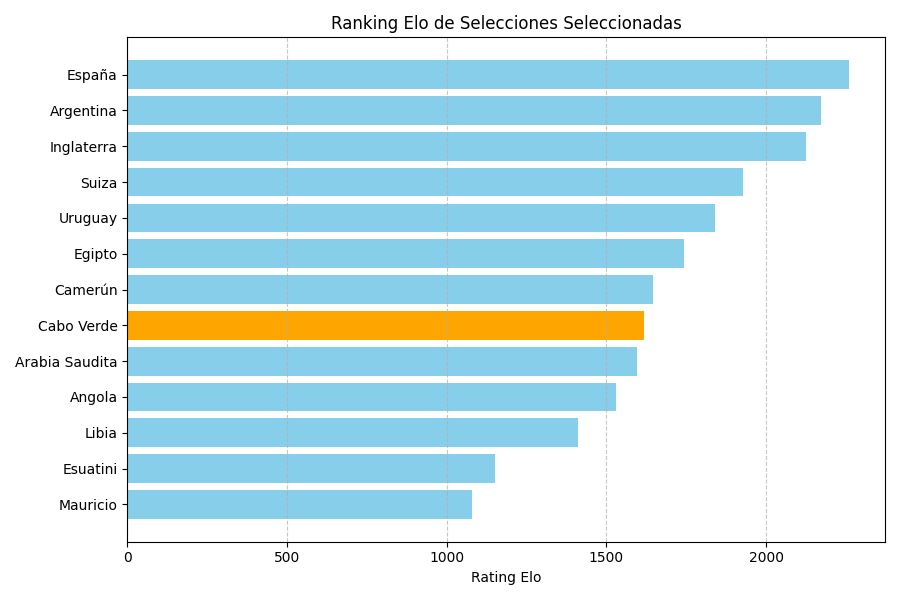
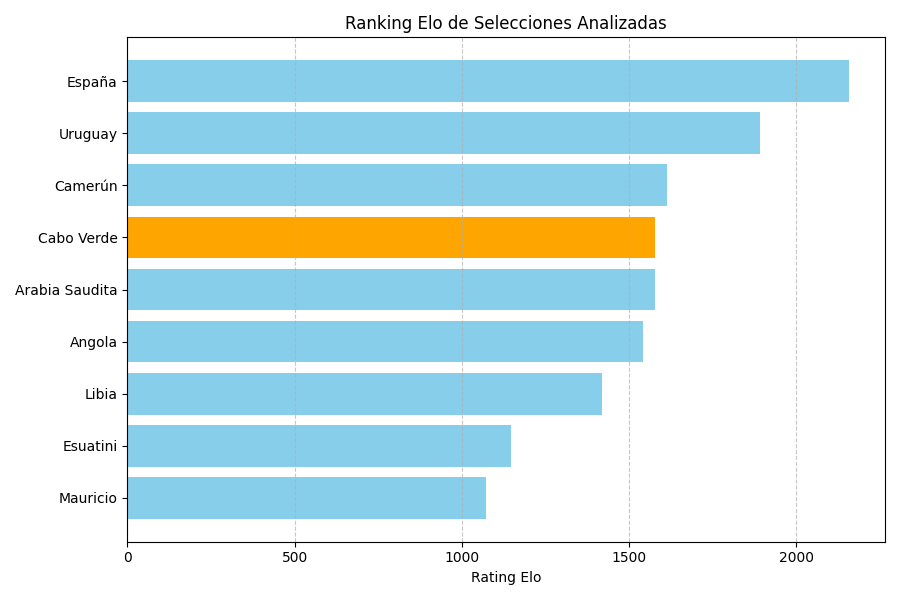
cambio en edo_simulador para generar gráfica de ELO

diff --git a/eda_simulador.py b/eda_simulador.py
@@ -1,9 +1,14 @@
-import math
 import os
+import sys
 import random
 import matplotlib.pyplot as plt
 import numpy as np
 import pandas as pd
+
+# Permite importar las funciones de simulación del proyecto Cabo Verde
+sys.path.append("2.4.Cabo Verde")
+
+from simulacion_base import simular_partido
 
 print("=" * 75)
 print("DÍA 4: EDA COMPLETO Y FUNCIONES BASE DE SIMULACIÓN")
@@ -25,6 +30,7 @@ if os.path.exists(ruta_chelsea_csv):
     stats_campeon = df_chelsea["gc_campeon"].agg(
         ["mean", "median", "var", "std", "min", "max"]
     )
+
     stats_defensa = df_chelsea["gc_mejor_defensa"].agg(
         ["mean", "median", "var", "std", "min", "max"]
     )
@@ -32,10 +38,12 @@ if os.path.exists(ruta_chelsea_csv):
     df_stats = pd.DataFrame(
         {"GC Campeón": stats_campeon, "GC Mejor Defensa": stats_defensa}
     )
+
     print(df_stats.round(2).to_string())
 
     # Chelsea 2004-05 Récord
     chelsea_0405 = df_chelsea[df_chelsea["temporada"] == "2004-2005"].iloc[0]
+
     print(
         f"\n Destacado Chelsea 2004-05: Campeón = {chelsea_0405['campeon']}, "
         f"GC = {chelsea_0405['gc_campeon']} (Récord Histórico de la Premier League)"
@@ -44,6 +52,7 @@ if os.path.exists(ruta_chelsea_csv):
     # GENERACIÓN DE GRÁFICOS CHELSEA
     # Histograma de GC del Campeón
     plt.figure(figsize=(8, 5))
+
     plt.hist(
         df_chelsea["gc_campeon"],
         bins=10,
@@ -51,6 +60,7 @@ if os.path.exists(ruta_chelsea_csv):
         edgecolor="black",
         alpha=0.7,
     )
+
     plt.axvline(
         chelsea_0405["gc_campeon"],
         color="red",
@@ -58,7 +68,9 @@ if os.path.exists(ruta_chelsea_csv):
         linewidth=2,
         label=f"Chelsea 04/05 ({chelsea_0405['gc_campeon']} GC)",
     )
+
     plt.title("Histograma de Goles en Contra del Campeón (31 Temporadas)")
+
     plt.xlabel("Goles en Contra (GC)")
     plt.ylabel("Frecuencia (Temporadas)")
     plt.legend()
@@ -69,6 +81,7 @@ if os.path.exists(ruta_chelsea_csv):
 
     # Serie Temporal Campeón vs Mejor Defensa
     plt.figure(figsize=(12, 5))
+
     plt.plot(
         df_chelsea["temporada"],
         df_chelsea["gc_campeon"],
@@ -76,6 +89,7 @@ if os.path.exists(ruta_chelsea_csv):
         label="GC Campeón",
         color="blue",
     )
+
     plt.plot(
         df_chelsea["temporada"],
         df_chelsea["gc_mejor_defensa"],
@@ -84,6 +98,7 @@ if os.path.exists(ruta_chelsea_csv):
         label="GC Mejor Defensa",
         color="green",
     )
+
     plt.axhline(
         chelsea_0405["gc_campeon"],
         color="red",
@@ -127,20 +142,48 @@ if os.path.exists(ruta_elo_limpio):
     stats_elo = df_elo["elo_rating"].agg(
         ["mean", "median", "var", "std", "min", "max"]
     )
-    print("Estadísticas del Ranking Elo (13 Selecciones):")
+    print("Estadísticas del Ranking Elo:")
     print(stats_elo.round(2).to_string())
 
     # Gráfico Barplot Rankings Elo
-    df_elo_sorted = df_elo.sort_values(by="elo_rating", ascending=True)
+    # Selecciones directamente relacionadas con los análisis de Cabo Verde: eliminatorias CAF y Grupo H del Mundial.
+    equipos_seleccionados = [
+        "Cabo Verde",
+        "Camerún",
+        "Libia",
+        "Angola",
+        "Mauricio",
+        "Esuatini",
+        "España",
+        "Uruguay",
+        "Arabia Saudita"
+    ]
+
+    df_elo_grafica = df_elo[
+        df_elo["equipo"].isin(equipos_seleccionados)
+    ].copy()
+
+    df_elo_sorted = df_elo_grafica.sort_values(
+        by="elo_rating",
+        ascending=True
+    )
     plt.figure(figsize=(9, 6))
     colores = [
         "orange" if eq == "Cabo Verde" else "skyblue"
         for eq in df_elo_sorted["equipo"]
     ]
-    plt.barh(df_elo_sorted["equipo"], df_elo_sorted["elo_rating"], color=colores)
-    plt.title("Ranking Elo de Selecciones Seleccionadas")
+    plt.barh(
+        df_elo_sorted["equipo"],
+        df_elo_sorted["elo_rating"],
+        color=colores
+    )
+    plt.title("Ranking Elo de Selecciones Analizadas")
     plt.xlabel("Rating Elo")
-    plt.grid(axis="x", linestyle="--", alpha=0.7)
+    plt.grid(
+        axis="x",
+        linestyle="--",
+        alpha=0.7
+    )
     plt.tight_layout()
     plt.savefig("2.4.Cabo Verde/Graficas/barplot_elo_selecciones.png")
     plt.close()
@@ -150,58 +193,51 @@ if os.path.exists(ruta_elo_limpio):
     )
 
 
-# FUNCIONES BASE REUTILIZABLES PARA SIMULACIÓN 
-def obtener_probabilidades_partido(elo_a, elo_b, k_empate=0.28):
-    """Retorna las probabilidades normalizadas de (Victoria A, Empate, Victoria B)."""
-    diff = elo_a - elo_b
-    e_a = 1 / (1 + 10 ** (-diff / 400))
-    p_empate = math.exp(-((diff / 400) ** 2)) * k_empate
-    p_gana_a = max(0.001, e_a - (p_empate / 2))
-    p_gana_b = max(0.001, (1 - e_a) - (p_empate / 2))
+# PRUEBA DE FUNCIONES BASE
 
-    total = p_gana_a + p_empate + p_gana_b
-    return (p_gana_a / total, p_empate / total, p_gana_b / total)
+if os.path.exists(ruta_elo_limpio):
 
-def simular_partido(
-    equipo_a, equipo_b, elo_dict, k_empate=0.28
-):
-    """Simula un partido entre dos equipos y asigna 3/1/0 puntos.
-
-    Retorna: (puntos_a, puntos_b, resultado_str)
-    """
-    elo_a = elo_dict[equipo_a]
-    elo_b = elo_dict[equipo_b]
-
-    p_a, p_emp, p_b = obtener_probabilidades_partido(
-        elo_a, elo_b, k_empate
-    )
-
-    # Generar número aleatorio [0.0, 1.0) para definir el resultado
-    r = random.random()
-
-    if r < p_a:
-        return 3, 0, f"Victoria {equipo_a}"
-    elif r < (p_a + p_emp):
-        return 1, 1, "Empate"
-    else:
-        return 0, 3, f"Victoria {equipo_b}"
-
-# PRUEBA DE FUNCIONES BASE 
-print("\n--- PRUEBA DE SIMULACIÓN DE PARTIDO Y ASIGNACIÓN DE PUNTOS ---")
-dict_elo = dict(zip(df_elo["equipo"], df_elo["elo_rating"]))
-
-# Simular 5 enfrentamientos de prueba Cabo Verde vs Camerún
-random.seed(42)
-
-print("Simulación de 5 partidos Cabo Verde vs Camerún:")
-for i in range(1, 6):
-    pts_a, pts_b, res = simular_partido(
-        "Cabo Verde",
-        "Camerún",
-        dict_elo
-    )
     print(
-        f"   Partido {i}: {res} -> Cabo Verde obtiene {pts_a} pts | Camerún obtiene {pts_b} pts"
+        "\n--- PRUEBA DE SIMULACIÓN "
+        "DE PARTIDO Y ASIGNACIÓN DE PUNTOS ---"
     )
 
-print("\n" + "=" * 75)
+    dict_elo = dict(
+        zip(
+            df_elo["equipo"],
+            df_elo["elo_rating"]
+        )
+    )
+
+    # Semillas para reproducibilidad
+    random.seed(42)
+    np.random.seed(42)
+
+    # Simular 5 enfrentamientos de prueba Cabo Verde vs Camerún
+    print(
+        "Simulación de 5 partidos "
+        "Cabo Verde vs Camerún:"
+    )
+
+    for i in range(1, 6):
+
+        (
+            pts_a,
+            pts_b,
+            goles_a,
+            goles_b,
+            res
+        ) = simular_partido(
+            "Cabo Verde",
+            "Camerún",
+            dict_elo,
+            neutral=True
+        )
+
+        print(
+            f"   Partido {i}: "
+            f"Cabo Verde {goles_a}-{goles_b} Camerún "
+            f"-> {res} "
+            f"-> Cabo Verde obtiene {pts_a} pts | "
+            f"Camerún obtiene {pts_b} pts"
+        )
